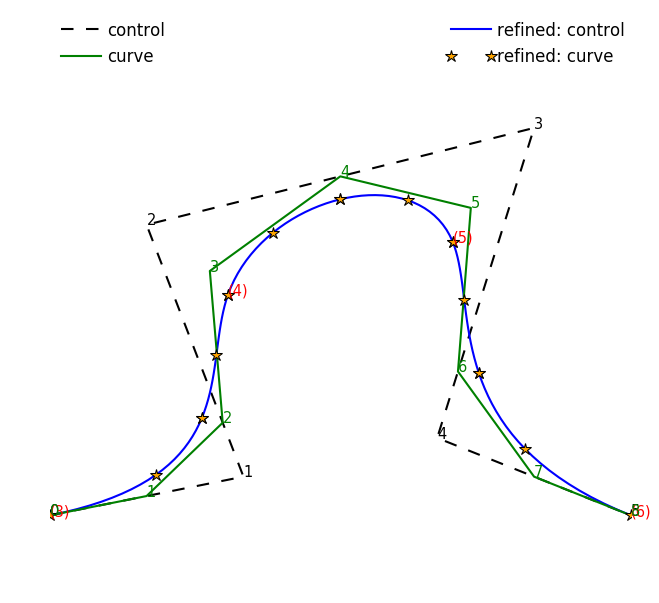
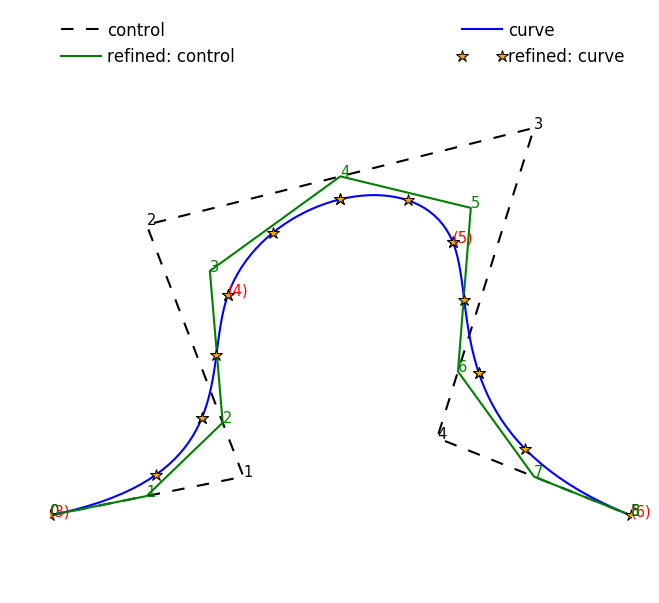
Fix example

Changed region(s): [[0.6677, 0.0299, 0.9712, 0.1194], [0.1517, 0.0597, 0.3642, 0.1194]]

diff --git a/examples/gm_nurbs01.go b/examples/gm_nurbs01.go
@@ -43,8 +43,8 @@ func main() {
 
 	// configuration
 	argsCtrlA := &plt.A{C: "k", Ls: "--", L: "control"}
-	argsCtrlB := &plt.A{C: "green", L: "curve"}
-	argsElemsA := &plt.A{C: "b", L: "refined: control"}
+	argsCtrlB := &plt.A{C: "green", L: "refined: control"}
+	argsElemsA := &plt.A{C: "b", L: "curve"}
 	argsElemsB := &plt.A{C: "orange", Ls: "none", M: "*", Me: 20, L: "refined: curve"}
 	argsIdsA := &plt.A{C: "k", Fsz: 7}
 	argsIdsB := &plt.A{C: "green", Fsz: 7}

diff --git a/gm/README.md b/gm/README.md
@@ -154,8 +154,8 @@ refined := curve.Krefine([][]float64{
 
 // configuration
 argsCtrlA := &plt.A{C: "k", Ls: "--", L: "control"}
-argsCtrlB := &plt.A{C: "green", L: "curve"}
-argsElemsA := &plt.A{C: "b", L: "refined: control"}
+argsCtrlB := &plt.A{C: "green", L: "refined: control"}
+argsElemsA := &plt.A{C: "b", L: "curve"}
 argsElemsB := &plt.A{C: "orange", Ls: "none", M: "*", Me: 20, L: "refined: curve"}
 argsIdsA := &plt.A{C: "k", Fsz: 7}
 argsIdsB := &plt.A{C: "green", Fsz: 7}
